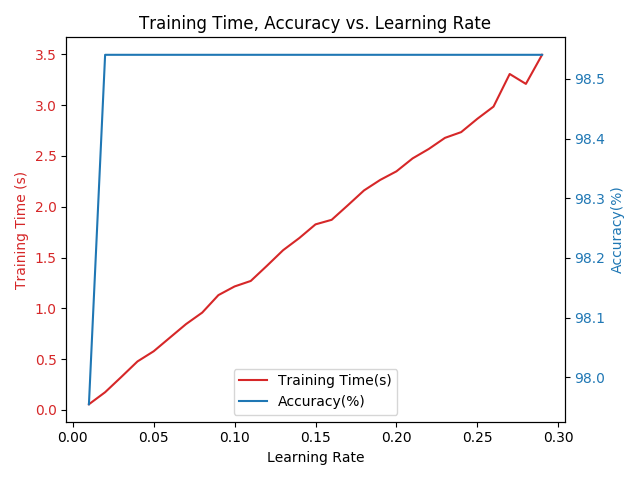
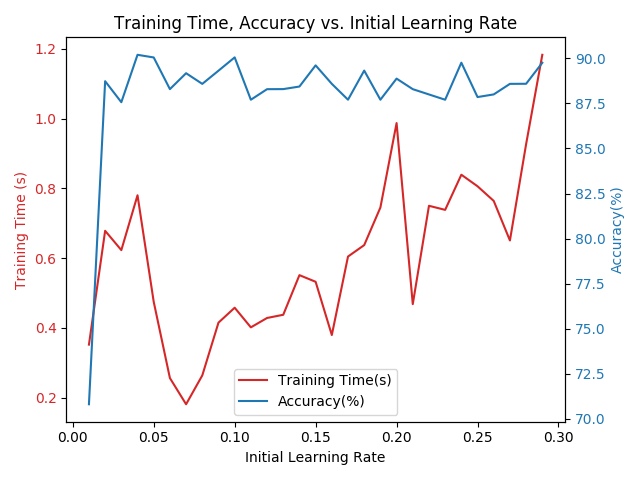
modification on test data

diff --git a/MiniProject1/testLR.py b/MiniProject1/testLR.py
@@ -64,10 +64,10 @@ breastCancerArrayRowsDeleted = np.delete(breastCancerNumpyArray, rowsToDelete, 0
 
 # counting benign/malignant classes
 benignCount = np.count_nonzero(breastCancerArrayRowsDeleted[:, 10] == "2", axis=0)
-MaglignantCount = np.count_nonzero(breastCancerArrayRowsDeleted[:, 10] == "4", axis=0)
+MalignantCount = np.count_nonzero(breastCancerArrayRowsDeleted[:, 10] == "4", axis=0)
 rowsForBenign = np.where(breastCancerArrayRowsDeleted[:, 10] == "2")[0]
 #print('aaaaaaa', rowsForBenign, 'aaaaaaaaa', breastCancerArrayRowsDeleted)
-rowsForMaglignant= np.where(breastCancerArrayRowsDeleted[:, 10] == "4")[0]
+rowsForMalignant= np.where(breastCancerArrayRowsDeleted[:, 10] == "4")[0]
 # print(benignCount) 444
 # print(MaglignantCount) 239
 
@@ -75,15 +75,10 @@ breastCancerData = np.array(breastCancerArrayRowsDeleted, dtype=np.float)
 breastCancerArrayDropLastColumn = np.delete(breastCancerArrayRowsDeleted, np.s_[-1:], axis=1)
 breastCancerFeature = np.array(breastCancerArrayDropLastColumn, dtype=np.float)
 benignClass = breastCancerFeature[rowsForBenign, :]
-maglignantClass = breastCancerFeature[rowsForMaglignant, :]
+malignantClass = breastCancerFeature[rowsForMalignant, :]
 
 classArray = np.zeros(breastCancerArrayRowsDeleted.shape[0])
-index = 0
-while index <= classArray.shape[0]:
-    if (index in maglignantClass):
-        classArray[index] = 1
-    index = index + 1
-
+classArray[rowsForMalignant] = 1
 
 def evaluate_acc(X,y,y_head):
     scsCount = 0
@@ -127,7 +122,7 @@ def normalize(X):
         X_clone[:,i] = np.divide(X_clone[:,i] - np.min(X_clone[:,i]),np.max(X_clone[:,i]) - np.min(X_clone[:,i]))
     return X_clone
 
-def kfoldLR(X,y,k,a = 0.1, epsilon = 1e-3, power = 1):
+def kfoldLR(X,y,k,a = 0.08, epsilon = 1e-3, power = 1):
     '''
     run kfoldLR(X,y,1) for training on all data and kfold(X,y,k)
     for k fold validation
@@ -181,8 +176,9 @@ def kfoldLR(X,y,k,a = 0.1, epsilon = 1e-3, power = 1):
         # K-fold validation yields average accuracy of 73.61 %
         return np.array([avgacc,avgtt])
 
-
-# # kfoldLR(wineFeatures,qualityBinary,1)
+'''
+# test initial learning rate
+# kfoldLR(wineFeatures,qualityBinary,1)
 learningRate = np.arange(0.01,0.3,0.01)
 resultWine2 = np.zeros((learningRate.shape[0],2))
 for i, a in enumerate(learningRate):
@@ -191,12 +187,29 @@ outfile = TemporaryFile()
 np.save(outfile, resultWine2)
 np.save('resultWine',resultWine2)
 
-# kfoldLR(breastCancerFeature,classArray,1)
+# # kfoldLR(breastCancerFeature,classArray,1)
 resultBC2 = np.zeros((learningRate.shape[0],2))
 for i, a in enumerate(learningRate):
     resultBC2[i,:] = kfoldLR(breastCancerFeature,classArray,5, a, 1e-3)
 outfile = TemporaryFile()
 np.save(outfile, resultBC2)
-np.save('resultBC',resultBC2)
+np.save('resultBC2',resultBC2)
 
 
+# test decay rate
+power = np.arange(1,4,0.5)
+resultWinePower = np.zeros((power.shape[0],2))
+for i, p in enumerate(power):
+    resultWinePower[i,:] = kfoldLR(wineFeatures,qualityBinary,5,0.1,1e-3,p)
+np.save('resultWinePower',resultWinePower)
+
+resultBCPower = np.zeros((power.shape[0],2))
+for i, p in enumerate(power):
+    resultBCPower[i,:] = kfoldLR(breastCancerFeature,classArray,5,0.1,1e-3,p)
+np.save('resultBCPower',resultBCPower)
+
+print(classArray)
+'''
+
+kfoldLR(wineFeatures,qualityBinary,5, 0.08, 1e-3)
+kfoldLR(breastCancerFeature,classArray,5,0.08,1e-3)

diff --git a/MiniProject1/plotLR.py b/MiniProject1/plotLR.py
@@ -14,12 +14,12 @@ from classification import LDA
 from tempfile import TemporaryFile
 
 learningRate = np.arange(0.01,0.3,0.01)
-result = np.load('resultWine.npy')
+result = np.load('resultWine2.npy')
 
 fig,ax1 = plt.subplots()
-ax1.set_title("Training Time, Accuracy vs. Learning Rate")
+ax1.set_title("Training Time, Accuracy vs. Initial Learning Rate")
 color = 'tab:red'
-ax1.set_xlabel('Learning Rate')
+ax1.set_xlabel('Initial Learning Rate')
 ax1.set_ylabel('Training Time (s)', color=color)
 accline, = ax1.plot(learningRate,result[:,1], color = color)
 ax1.tick_params(axis='y', labelcolor=color)
@@ -35,11 +35,11 @@ lg = ax1.legend([ttline,accline],['Training Time(s)','Accuracy(%)'],loc='lower c
 plt.show()
 
 
-result = np.load('resultBC.npy')
+result = np.load('resultBC2.npy')
 fig,ax1 = plt.subplots()
-ax1.set_title("Training Time, Accuracy vs. Learning Rate")
+ax1.set_title("Training Time, Accuracy vs. Initial Learning Rate")
 color = 'tab:red'
-ax1.set_xlabel('Learning Rate')
+ax1.set_xlabel('Initial Learning Rate')
 ax1.set_ylabel('Training Time (s)', color=color)
 ttline, = ax1.plot(learningRate,result[:,1], color = color)
 ax1.tick_params(axis='y', labelcolor=color)
@@ -54,3 +54,46 @@ fig.tight_layout()  # otherwise the right y-label is slightly clipped
 lg = ax1.legend([ttline,accline],['Training Time(s)','Accuracy(%)'],loc='lower center')
 plt.show()
 
+
+
+
+power = np.arange(1,4,0.5)
+result = np.load('resultWinePower.npy')
+fig,ax1 = plt.subplots()
+ax1.set_title("Training Time, Accuracy vs. Learning Rate Decay Speed")
+color = 'tab:red'
+ax1.set_xlabel('Learning Rate Decay Speed')
+ax1.set_ylabel('Training Time (s)', color=color)
+accline, = ax1.plot(power,result[:,1], color = color)
+ax1.tick_params(axis='y', labelcolor=color)
+
+ax2 = ax1.twinx()  # instantiate a second axes that shares the same x-axis
+color = 'tab:blue'
+ax2.set_ylabel('Accuracy(%)', color=color)  # we already handled the x-label with ax1
+ttline, = ax2.plot(power,result[:,0],color = color)
+ax2.tick_params(axis='y', labelcolor=color)
+
+fig.tight_layout()  # otherwise the right y-label is slightly clipped
+lg = ax1.legend([ttline,accline],['Training Time(s)','Accuracy(%)'],loc='lower center')
+plt.show()
+
+
+result = np.load('resultBCPower.npy')
+fig,ax1 = plt.subplots()
+ax1.set_title("Training Time, Accuracy vs. Learning Rate Decay Speed")
+color = 'tab:red'
+ax1.set_xlabel('Learning Rate Decay Speed')
+ax1.set_ylabel('Training Time (s)', color=color)
+ttline, = ax1.plot(power,result[:,1], color = color)
+ax1.tick_params(axis='y', labelcolor=color)
+
+ax2 = ax1.twinx()  # instantiate a second axes that shares the same x-axis
+color = 'tab:blue'
+ax2.set_ylabel('Accuracy(%)', color=color)  # we already handled the x-label with ax1
+accline, = ax2.plot(power,result[:,0],color = color)
+ax2.tick_params(axis='y', labelcolor=color)
+# ax2.set_ylim([98.25,98.75])
+
+fig.tight_layout()  # otherwise the right y-label is slightly clipped
+lg = ax1.legend([ttline,accline],['Training Time(s)','Accuracy(%)'],loc='lower center')
+plt.show()
